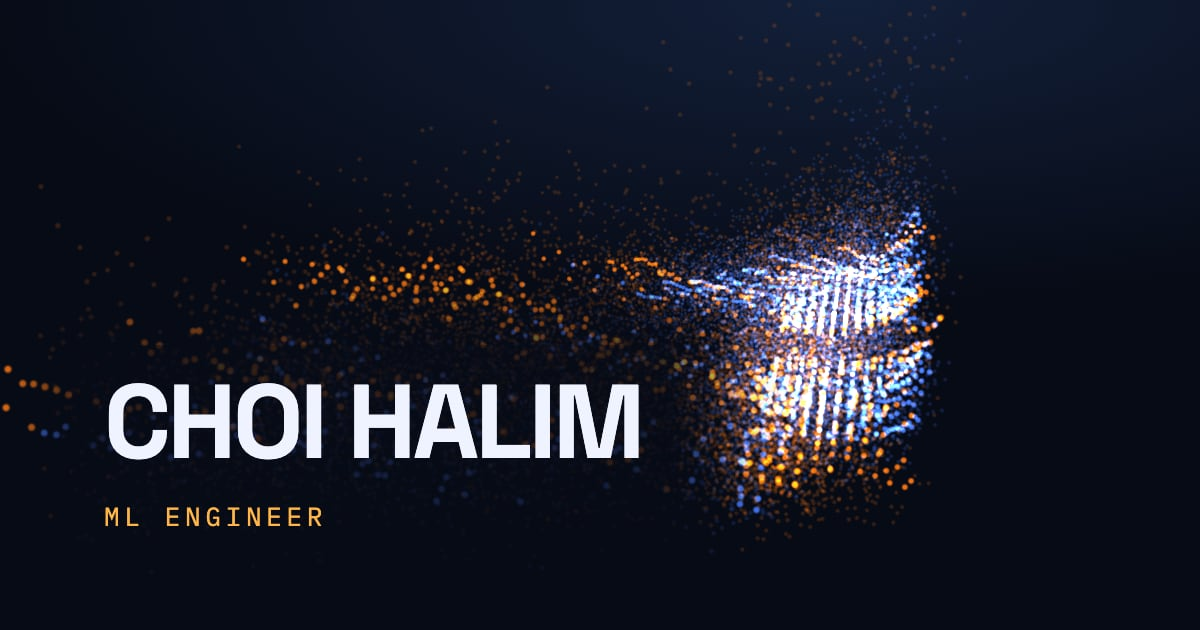
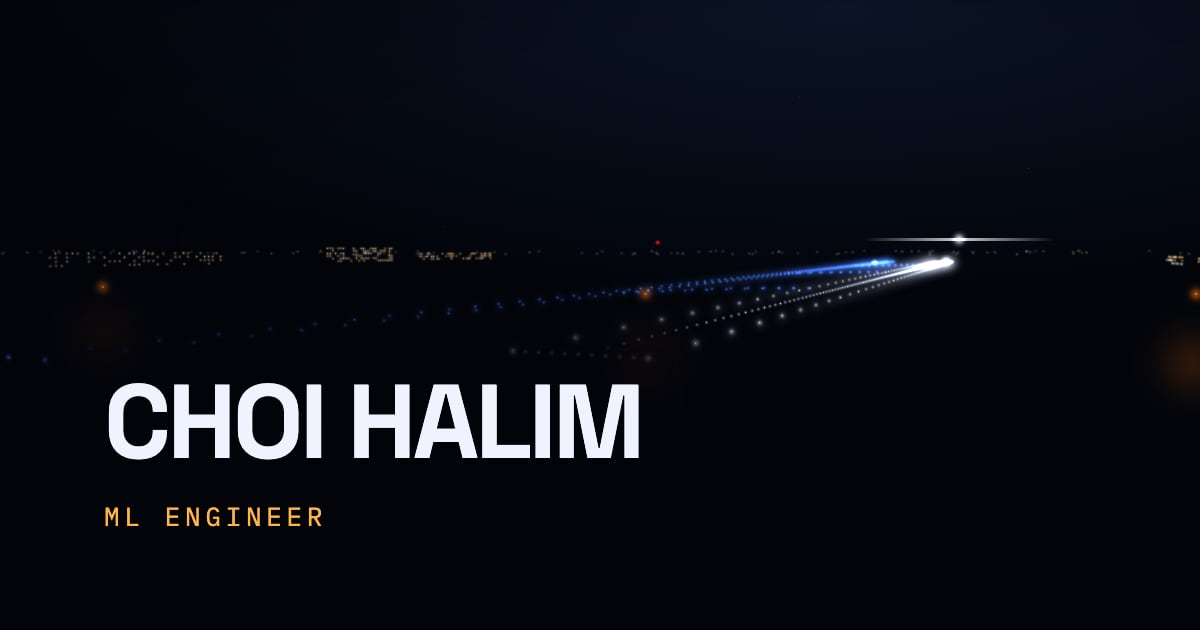
chore: recapture OG images on the night-airport hero; record 6-3 merge

diff --git a/CLAUDE.md b/CLAUDE.md
@@ -6,7 +6,7 @@ Awwwards / FWA 수준의 인터랙티브 디자인을 가진 **취업·이직용
 
 ## 현재 상태 (2026-09-29, 맥북에서 계획 6-3 구현 후 정리)
 
-계획 1·2·3·4-1·4-2·5-1·5-2·6-1·6-2가 모두 main에 병합되어 운영 사이트에 배포돼 있다(6-2는 PR #8, 2026-09-28 병합). 6-3(첫 화면 다듬기)은 브랜치 `plan-6-3-polish`에 구현 완료(푸시 전). 남은 것은 5-3(인터랙션)과 공개 전 준비.
+계획 1·2·3·4-1·4-2·5-1·5-2·6-1·6-2·6-3이 모두 main에 병합되어 운영 사이트에 배포돼 있다(6-3은 PR #9, 2026-09-29 병합). 남은 것은 5-3(인터랙션)과 공개 전 준비.
 
 - 운영: https://signal-ml-portfolio.vercel.app (아직 `noindex` — 공개 전환 전)
 - GitHub: https://github.com/hyde0395/signal-ml-portfolio (공개), main = 운영, PR = Vercel 미리보기
@@ -23,7 +23,7 @@ Awwwards / FWA 수준의 인터랙티브 디자인을 가진 **취업·이직용
 | 5-2 차트 | ② 두 화면·판 없는 보드, ③ 점 와플, ④ 점 달력·구간별 벌떼·불확실성 구름, 배경 점 → 차트 | `2026-09-27-plan-5-2-charts.md` | ✅ PR #6 (2026-09-28 병합·배포) |
 | 6-1 배치 정리 | 글·차트 자막 방식, 글 뒤 판 제거(장면 구도·비네트), 와플 설명 한 줄 | `2026-09-28-plan-6-1-layout.md` | ✅ PR #7 (2026-09-28 병합·배포) |
 | 6-2 밤의 공항 | 공항 첫 화면(불빛 → 지형), NOW BOARDING 로딩 | `2026-09-28-plan-6-2-night-airport.md` | ✅ PR #8 (2026-09-28 병합·배포) |
-| 6-3 첫 화면 다듬기 | 배경 #02040A, 점 D(안 타게·거리 흐림·sRGB 색), 상단 바 E(내리면 숨김·올리면 오른쪽), SCROLL 표시 | `2026-09-28-plan-6-3-polish.md` | ✅ (PR 대기) |
+| 6-3 첫 화면 다듬기 | 배경 #02040A, 점 D(안 타게·거리 흐림·sRGB 색), 상단 바 E(내리면 숨김·올리면 오른쪽), SCROLL 표시 | `2026-09-28-plan-6-3-polish.md` | ✅ PR #9 (2026-09-29 병합·배포) |
 
 계획 5-3(인터랙션)이 남았다. 설계: `docs/superpowers/specs/2026-09-25-page-restructure-design.md`
 
@@ -33,12 +33,11 @@ Awwwards / FWA 수준의 인터랙티브 디자인을 가진 **취업·이직용
 
 ## 다음 세션에서 할 일 (순서대로)
 
-0. **★ 계획 6-3(첫 화면 다듬기)은 브랜치 `plan-6-3-polish`에 구현·검토 완료(푸시 전) — 푸시 → PR·CI → 미리보기에서 사용자 확인 → main 병합.** 6-2는 PR #8로 병합·배포됨
-   - 설계: `docs/superpowers/specs/2026-09-28-first-screen-polish-design.md`(2026-09-28 사용자 승인). 시안 `docs/superpowers/mockups/2026-09-28-polish/`. 구현 결과는 설계 문서 "구현 결과 (계획 6-3)"
-   - 병합 전 사용자에게 물을 것: **OG 이미지를 새 첫 화면으로 다시 찍을지**(6-2에서 미룬 결정, 배경·점이 바뀐 지금 정한다). 정해지면 `npm run og` 실행 후 커밋
+0. 계획 6-3(첫 화면 다듬기)은 PR #9로 병합·배포됨(2026-09-29). OG 이미지도 새 공항 첫 화면으로 다시 찍었다(사용자 결정)
+   - 설계: `docs/superpowers/specs/2026-09-28-first-screen-polish-design.md`, 구현 결과는 그 문서의 "구현 결과 (계획 6-3)"
    - 알려진 작은 것: `/en/` 320px 폭에서 상단 바가 두 줄, 글자 크기 2배쯤에서 언어 안내 띠와 SCROLL 표시가 겹칠 수 있음, `hero.webp`의 작은 불빛이 실제 3D보다 조금 흐림(캡처 스크립트의 `toDataURL` 탓)
-   - 다음: 6-3 병합 뒤 **계획 5-3(인터랙션)** 계획서를 `superpowers:writing-plans`로 쓴다(아래 1번)
    - `board.spec`의 "화면에 들어오면 넘어가고…" e2e는 main에서도 가끔 실패한다(로컬 6회 중 3회). 고칠 거리로 남겨 둠
+   - 다음: **계획 5-3(인터랙션)** 계획서를 `superpowers:writing-plans`로 쓴다(아래 1번). 3D 청크 여유는 243.9KB/250KB
 1. **계획 5-3 계획서 작성** (`superpowers:writing-plans`, 실행은 subagent-driven-development — 사용자가 5-1·5-2에서 고름) — 설계 §4.1:
    - 점이 마우스에 반응(모든 장면, 휴대폰은 누른 곳에서 물결 한 번), 차트에서는 미는 거리를 줄임
    - ③ 와플 눌러 **SHAP 벌떼**로 펼치기(초점·Enter/Space·Esc, 한 번에 하나). SHAP 값 추출 포함: 항공권 저장소 `src/models/shap_analysis.py`처럼 `v2_predictor.pkl` + `booster.predict(pred_contribs=True)`(재학습 없음), 피처 33개 × 표본 약 150개를 `charts.json`의 `shap`으로. 범주형 피처(노선·항공사)는 값 색 대신 중간색
